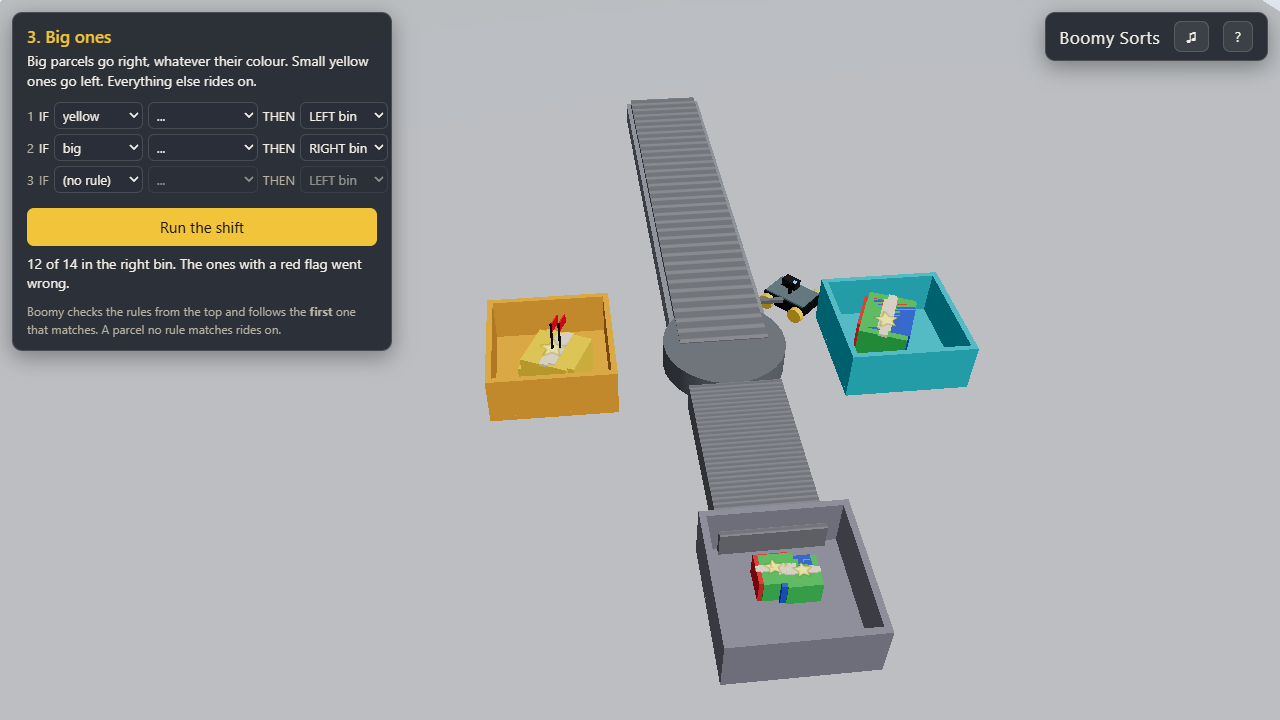
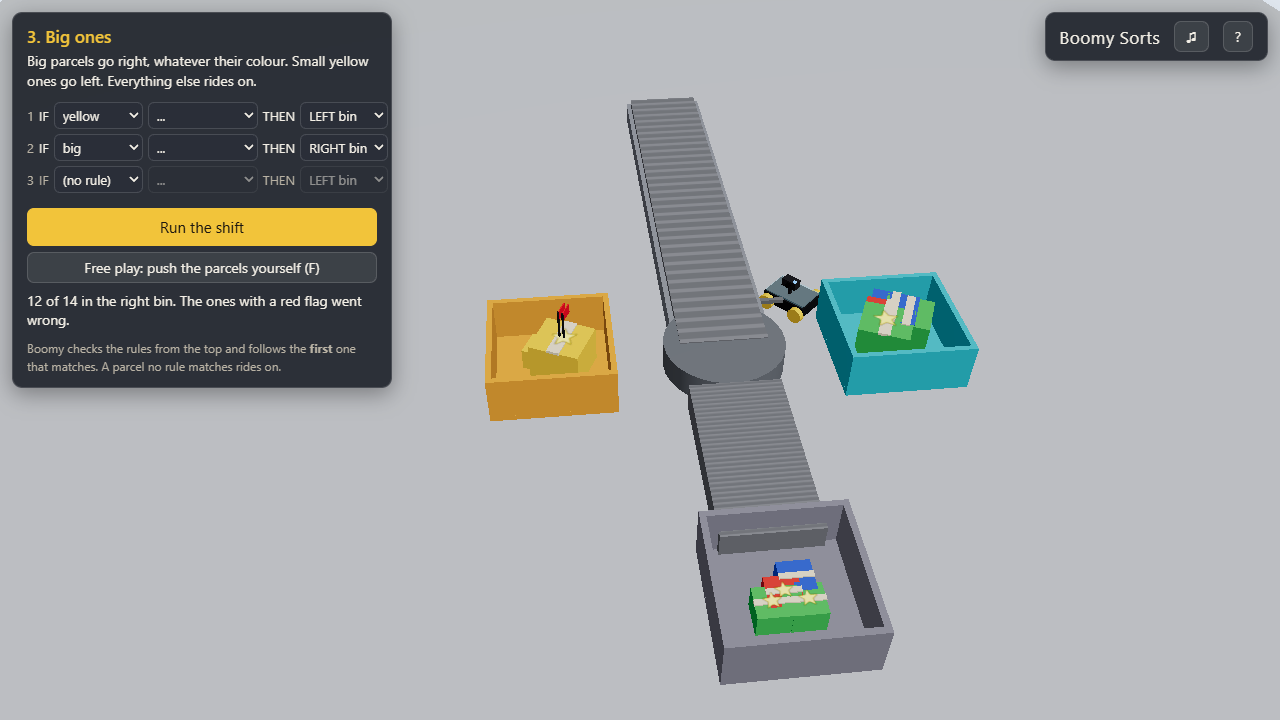
feat(boomy-sorts): free-play mode, push the parcels yourself
F toggles a hands-on mode: Boomy holds each parcel at the junction, Left/Right (A/D) push into a bin, Down/S/Space lets it ride on, 1-5 pick the job, on-screen pad for touch. Rule-writing game and the verification tour are unchanged; the gate still passes.

Claude-Session: https://claude.ai/code/session_018dTunm6jJyN2wuD6oJnSBt

diff --git a/web/games/robot-sorting/main.js b/web/games/robot-sorting/main.js
@@ -140,7 +140,9 @@ $('next').addEventListener('click', () => { if (level + 1 < R.LEVELS.length) sta
 
 const SPEED = 4.2, GAP = 0.75;
 let armTarget = 0;
+let manual = false, manualWait = 0, fp = { right: 0, total: 0, streak: 0, best: 0 };
 function tick(dt) {
+  if (manual && !run) { manualWait -= dt; if (manualWait <= 0) startManualRound(); }
   beltTex.offset.y -= dt * SPEED / 9.4 * 8 * (run ? 1 : 0.15);
   if (run) {
     run.spawnT -= dt;
@@ -158,8 +160,9 @@ function tick(dt) {
         const ahead = run.items.filter((o) => o !== it && o.phase === 'belt' && o.mesh.position.z > m.position.z).map((o) => o.mesh.position.z);
         const limit = Math.min(JUNCTION_Z, ...ahead.map((z) => z - 1.05));
         m.position.z = Math.min(limit, m.position.z + SPEED * dt);
-        if (m.position.z >= JUNCTION_Z - 1e-3 && !run.items.some((o) => o.phase === 'decide' || o.phase === 'push')) { it.phase = 'decide'; it.t = 0; it.dest = R.route(run.program, it.p); }
+        if (m.position.z >= JUNCTION_Z - 1e-3 && !run.items.some((o) => o.phase === 'decide' || o.phase === 'push')) { it.phase = 'decide'; it.t = 0; it.dest = run.manual ? null : R.route(run.program, it.p); }
       } else if (it.phase === 'decide') {
+        if (run.manual && !it.dest) { head.rotation.x = -0.4; led.material.color.setHex(0xffd03a); led.material.emissive.setHex(0xffd03a); armTarget = 0; continue; }   // free play: wait for the player
         it.t += dt;
         head.rotation.x = -0.4; led.material.color.setHex(0xffd03a); led.material.emissive.setHex(0xffd03a);
         armTarget = it.dest === 'left' ? 0.9 : it.dest === 'right' ? -0.9 : 0;
@@ -175,12 +178,14 @@ function tick(dt) {
           const b = BINS[it.dest]; b.count++;
           if (ok) run.correct++; else { b.wrong++; markWrong(m); }
           run.finished++;
+          if (run.manual) fpScore(ok);
           sfx.tone(ok ? 660 : 220, 0.12, { type: ok ? 'sine' : 'square', vol: ok ? 0.05 : 0.03 });
           head.rotation.x = 0; led.material.color.setHex(0x3a8aff); led.material.emissive.setHex(0x3a8aff); armTarget = 0;
         }
       }
     }
-    if (run.finished === run.parcels.length) {
+    if (run && run.manual && run.finished === run.parcels.length) manualRoundDone();
+    if (run && run.finished === run.parcels.length) {
       lastScore = run.correct;
       const total = run.parcels.length;
       if (run.correct === total) {
@@ -256,6 +261,36 @@ const checks = [
 ];
 
 startLevel(0);
+// ------------------------------------------------------------------ free play
+// Hands-on mode: Boomy holds each parcel at the junction and you push it yourself.
+// Keys: Left/A = LEFT bin, Right/D = RIGHT bin, Down/S/Space = ride ON, 1-5 = pick the job, F = toggle.
+// Not part of the verified tour; the rule-writing game is unchanged.
+function fpShow() { $('result').textContent = fp.total ? `${fp.right} of ${fp.total} right - streak ${fp.streak} (best ${fp.best})` : 'Push each parcel into the bin the job asks for.'; }
+function fpScore(ok) { fp.total++; if (ok) { fp.right++; fp.streak++; fp.best = Math.max(fp.best, fp.streak); } else fp.streak = 0; fpShow(); }
+function fpTitle() { const L = R.LEVELS[level]; $('goal-title').textContent = `Free play - ${level + 1}. ${L.title}`; $('goal').textContent = `${L.goal} Left/Right (or A/D) push into a bin, Down or Space lets it ride on. Keys 1-${R.LEVELS.length} pick the job.`; }
+function startManualRound() { clearParcels(); run = { program: [], parcels: R.shift(level, (Math.random() * 2e9) | 0), items: [], next: 0, spawnT: 0, correct: 0, finished: 0, manual: true }; }
+function manualRoundDone() { run = null; manualWait = 1.4; toast('Next shift incoming', 1200); }
+function fpPush(dest) { if (!manual || !run) return; const it = run.items.find((o) => o.phase === 'decide' && !o.dest); if (it) it.dest = dest; }
+function fpLevel(i) { if (!manual || i < 0 || i >= R.LEVELS.length) return; level = i; run = null; clearParcels(); fp = { right: 0, total: 0, streak: 0, best: 0 }; manualWait = 0; fpTitle(); fpShow(); }
+function setManual(on) {
+  if (on === manual) return;
+  manual = on; run = null; clearParcels(); levelDone = false; $('done').hidden = true;
+  $('fp-toggle').classList.toggle('on', on); $('pad').hidden = !on; $('rules').hidden = on;
+  if (on) { fp = { right: 0, total: 0, streak: 0, best: 0 }; setEditable(false); manualWait = 0; fpTitle(); fpShow(); }
+  else startLevel(level);
+}
+$('fp-toggle').addEventListener('click', () => setManual(!manual));
+for (const b of document.querySelectorAll('#pad button')) b.addEventListener('pointerdown', () => fpPush(b.dataset.d));
+addEventListener('keydown', (e) => {
+  if (e.target instanceof HTMLSelectElement || e.target instanceof HTMLInputElement || e.ctrlKey || e.metaKey || e.altKey || help.isOpen()) return;
+  const k = e.key.toLowerCase();
+  if (k === 'f') { setManual(!manual); return; }
+  if (!manual) return;
+  const dest = k === 'arrowleft' || k === 'a' ? 'left' : k === 'arrowright' || k === 'd' ? 'right' : k === 'arrowdown' || k === 's' || k === ' ' ? 'pass' : null;
+  if (dest) { e.preventDefault(); fpPush(dest); return; }
+  if (/^[1-9]$/.test(k)) fpLevel(Number(k) - 1);
+});
+
 const help = wireHelp();
 const api = harness({
   checks, tick, render, selfTest: R.selfTest, bot: botStep,

diff --git a/web/games/robot-sorting/index.html b/web/games/robot-sorting/index.html
@@ -19,6 +19,10 @@
   #result { margin-top: 8px; font-size: 14px; min-height: 1.4em; }
   .legend { margin-top: 10px; font-size: 12px; color: var(--dim); line-height: 1.5; }
   #hud { left: auto; right: 12px; transform: none; }
+  #fp-toggle { margin-top: 6px; width: 100%; }
+  #pad { position: fixed; left: 50%; bottom: 18px; transform: translateX(-30%); display: flex; gap: 10px; }
+  #pad[hidden] { display: none; }
+  #pad button { font-size: 16px; padding: 12px 22px; background: var(--panel); }
   @media (max-width: 760px) { #program { width: calc(100vw - 24px); top: auto; bottom: 12px; max-height: 46vh; } select { max-width: 92px; } }
 </style>
 <script type="importmap">
@@ -32,9 +36,11 @@
   <div id="goal"></div>
   <div id="rules"></div>
   <button id="run" class="primary">Run the shift</button>
+  <button id="fp-toggle" title="Free play (F)">Free play: push the parcels yourself (F)</button>
   <div id="result"></div>
   <div class="legend">Boomy checks the rules from the top and follows the <b>first</b> one that matches. A parcel no rule matches rides on.</div>
 </div>
+<div id="pad" hidden><button data-d="left">&larr; LEFT</button><button data-d="pass">ride ON</button><button data-d="right">RIGHT &rarr;</button></div>
 <div id="hud" class="panel">
   <span class="name">Boomy Sorts</span>
   <button id="music-btn" title="Music (M)">&#9835;</button>
@@ -46,6 +52,7 @@
     <h1>Boomy Sorts</h1>
     <p>Boomy is a small robot at the end of a conveyor belt. Each parcel stops in front of him, and he sends it into the LEFT bin, the RIGHT bin, or lets it ride ON.</p>
     <p>Tell him how with a few rules: <b>IF</b> a parcel is red (and, optionally, big, or has a star) <b>THEN</b> send it somewhere. He reads the rules from the top and follows the first one that fits.</p>
+    <p class="dim">Prefer to drive? Press <b>F</b> for free play: Boomy holds each parcel and you push it with Left/Right (or A/D); Down or Space lets it ride on.</p>
     <p class="dim">Run the shift and watch. Parcels that end up in the wrong bin get a red flag. Change a rule and run again; the shift is the same each time, so you can compare. Nothing breaks.</p>
     <button id="help-go" class="go">Switch Boomy on</button>
   </div>

diff --git a/web/games/robot-sorting/CHEATSHEET.md b/web/games/robot-sorting/CHEATSHEET.md
@@ -9,3 +9,17 @@
 | 5 | small red left; other red right; blue with star left; other big right |
 
 First matching rule wins, so put the exceptions above the general rules.
+
+## Free play (press F)
+
+Boomy holds each parcel at the junction and you push it yourself. Not part of the verified tour.
+
+| Key | Action |
+|---|---|
+| Left / A | push into the LEFT bin |
+| Right / D | push into the RIGHT bin |
+| Down / S / Space | let it ride ON |
+| 1-5 | pick the job (its goal decides what counts as right) |
+| F | back to the rule-writing game |
+
+On-screen LEFT / ride ON / RIGHT buttons do the same on touch. A running tally shows right-of-total and your streak.

diff --git a/web/games/robot-sorting/README.md b/web/games/robot-sorting/README.md
@@ -11,3 +11,5 @@ kinds, an empty program never passes, wrong-order programs fail on every shift, 
 every outcome appears at least twice per shift. Tour: drives the real selects and
 Run button: job 1 empty (fails), job 1 fixed, job 2, job 3 in the wrong order
 (fails), job 3 right.
+
+Free play (F): a hands-on mode where Boomy holds each parcel at the junction and you push it into a bin with the arrow keys, A/D/S/Space, or on-screen buttons. It reuses the same jobs and bins; the verified tour does not use it.
